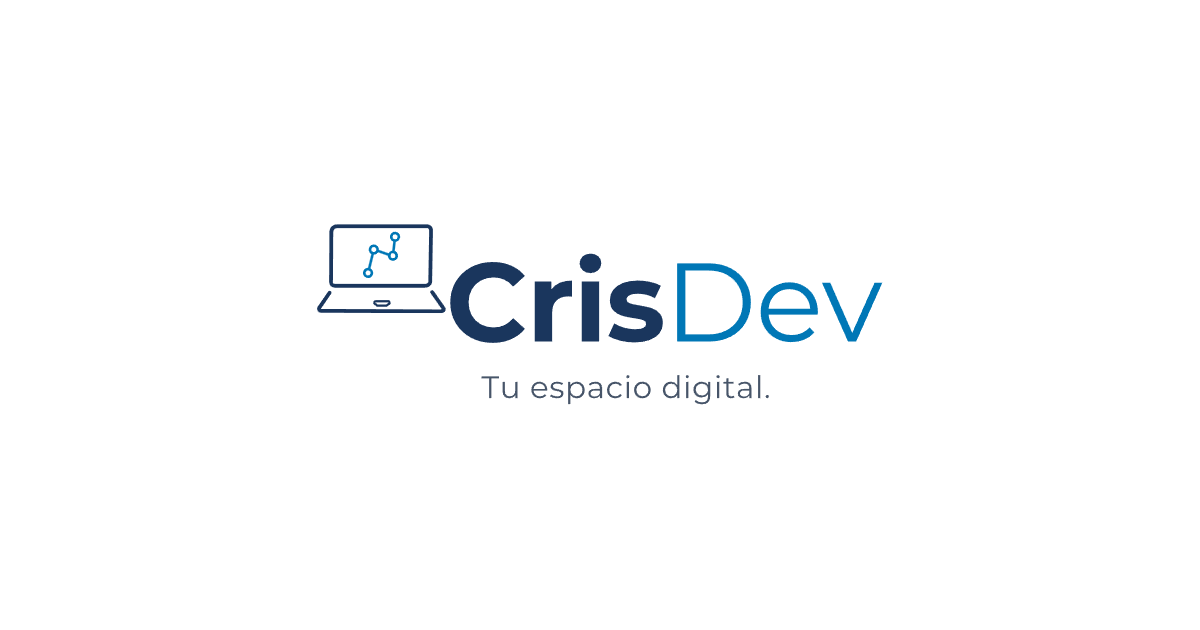
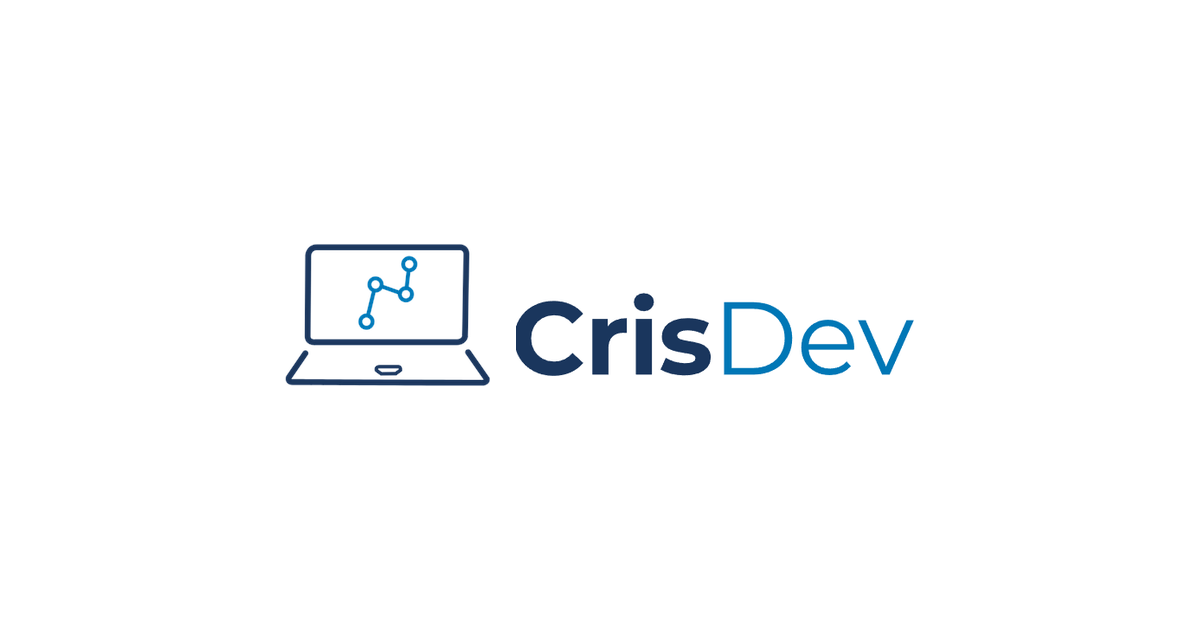
feat: optimize open graph preview image for crisp rendering and stroke visibility

Changed region(s): [[0.2158, 0.3317, 0.7708, 0.6333]]

diff --git a/index.html b/index.html
@@ -19,8 +19,8 @@
   <meta property="og:url" content="https://cristhianruiz.dev/">
   <meta property="og:title" content="CrisDev | Cristhian Ruiz — Software & Web para Psicólogos y Salud">
   <meta property="og:description" content="Presencia digital de alta conversión y plataformas a medida para psicólogos, terapeutas y profesionales de la salud. Menos tareas administrativas, más pacientes y cero comisiones.">
-  <meta property="og:image" content="https://cristhianruiz.dev/assets/images/og-image.png?v=3.0-white">
-  <meta property="og:image:secure_url" content="https://cristhianruiz.dev/assets/images/og-image.png?v=3.0-white">
+  <meta property="og:image" content="https://cristhianruiz.dev/assets/images/og-image.png?v=4.0-crisp">
+  <meta property="og:image:secure_url" content="https://cristhianruiz.dev/assets/images/og-image.png?v=4.0-crisp">
   <meta property="og:image:type" content="image/png">
   <meta property="og:image:width" content="1200">
   <meta property="og:image:height" content="630">
@@ -31,7 +31,7 @@
   <meta property="twitter:url" content="https://cristhianruiz.dev/">
   <meta property="twitter:title" content="CrisDev | Cristhian Ruiz — Software & Web para Psicólogos y Salud">
   <meta property="twitter:description" content="Presencia digital de alta conversión y gestión clínica privada para psicólogos y especialistas de la salud.">
-  <meta property="twitter:image" content="https://cristhianruiz.dev/assets/images/og-image.png?v=3.0-white">
+  <meta property="twitter:image" content="https://cristhianruiz.dev/assets/images/og-image.png?v=4.0-crisp">
 
   <!-- Structured Data / Schema.org (JSON-LD) for Search Engines -->
   <script type="application/ld+json">

diff --git a/aviso-de-privacidad.html b/aviso-de-privacidad.html
@@ -19,8 +19,8 @@
   <meta property="og:url" content="https://cristhianruiz.dev/aviso-de-privacidad">
   <meta property="og:title" content="Aviso de Privacidad | CrisDev — Cristhian Ruiz">
   <meta property="og:description" content="Aviso de privacidad, confidencialidad técnica y términos de protección de datos de CrisDev para especialistas de la salud.">
-  <meta property="og:image" content="https://cristhianruiz.dev/assets/images/og-image.png?v=3.0-white">
-  <meta property="og:image:secure_url" content="https://cristhianruiz.dev/assets/images/og-image.png?v=3.0-white">
+  <meta property="og:image" content="https://cristhianruiz.dev/assets/images/og-image.png?v=4.0-crisp">
+  <meta property="og:image:secure_url" content="https://cristhianruiz.dev/assets/images/og-image.png?v=4.0-crisp">
   <meta property="og:image:type" content="image/png">
   <meta property="og:image:width" content="1200">
   <meta property="og:image:height" content="630">
@@ -30,7 +30,7 @@
   <meta property="twitter:url" content="https://cristhianruiz.dev/aviso-de-privacidad">
   <meta property="twitter:title" content="Aviso de Privacidad | CrisDev — Cristhian Ruiz">
   <meta property="twitter:description" content="Aviso de privacidad y confidencialidad técnica de CrisDev para especialistas de la salud.">
-  <meta property="twitter:image" content="https://cristhianruiz.dev/assets/images/og-image.png?v=3.0-white">
+  <meta property="twitter:image" content="https://cristhianruiz.dev/assets/images/og-image.png?v=4.0-crisp">
 
   <!-- Favicon -->
   <link rel="icon" type="image/svg+xml" href="assets/images/favicon.svg?v=2.1">

diff --git a/overview/session.md b/overview/session.md
@@ -56,17 +56,22 @@
 12. **Actualización de Imagen Open Graph para WhatsApp y Redes Sociales (T31):**
     - Se reemplazó la foto de perfil personal en `og:image` por el imagotipo oficial corporativo con fondo blanco clínico (`assets/images/og-image.png`).
     - Resolución estándar de 1200x630 px con zona segura central de 630x630 px para que no se corte en miniaturas cuadradas de WhatsApp.
-    - Metadatos sincronizados con `og:image:width="1200"`, `og:image:height="630"`, `og:image:type="image/png"` y versión `?v=3.0-white` en `index.html` y `aviso-de-privacidad.html`.
+
+13. **Optimización de Nitidez, Contraste y Trazo en Open Graph (T32):**
+    - **Línea Superior del Icono:** Se reforzó el trazo superior del monitor de la laptop utilizando el render vectorial de alta definición (con grosor consistente de marco en lugar del trazo subpíxel de 2px), garantizando que no desaparezca al comprimirse en miniaturas de 60-80px.
+    - **Eliminación de Subtítulo Borroso:** Se retiró la frase secundaria *"Tu espacio digital."* del banner Open Graph, eliminando el manchón grisáceo y permitiendo que el nombre de marca `CrisDev` y el isotipo respiren con máxima nitidez.
+    - **Zona Segura Cuadrada:** Dimensiones calibradas para que el imagotipo quede perfectamente centrado tanto en el lienzo completo de 1200x630 px como en el recorte/letterbox cuadrado de WhatsApp (630x630 px).
+    - **Cache-Busting Actualizado:** Enlaces actualizados con query string `?v=4.0-crisp` en `index.html` y `aviso-de-privacidad.html` para forzar a los scrapers de WhatsApp y redes a purgar su caché y renderizar la nueva imagen al instante.
 
 ## En qué quedó el proyecto
 
-- Menú hamburguesa móvil y navegación desplegable completados y verificados en móvil y desktop.
-- Imagen de previsualización en WhatsApp y redes sociales actualizada al logotipo oficial sobre fondo blanco clínico.
-- Commit y push completados hacia `origin/main`.
+- Imagen Open Graph regenerada con trazos de alta definición y sin textos microscópicos que causen borrosidad.
+- Metadatos actualizados a versión `?v=4.0-crisp` en `index.html` y `aviso-de-privacidad.html`.
+- Listo para commit y push a `origin/main` para despliegue en Cloudflare Pages.
 
 ## Próximo paso
 
-- Despliegue automático de Cloudflare Pages completado. Esperar nuevas instrucciones del usuario.
+- Enviar cambios a GitHub para que el CDN de Cloudflare Pages publique el nuevo asset y verificar en WhatsApp.
 
 
 

diff --git a/specs/001-landing-page-crisdev/tasks.md b/specs/001-landing-page-crisdev/tasks.md
@@ -34,6 +34,7 @@ Referencia: `specs/001-landing-page-crisdev/plan.md`
 | **T29** | Configuración estratégica de enlaces sociales en footer (remoción de GitHub e integración de Facebook) | `index.html`, `aviso-de-privacidad.html` | ✅ hecho | Sustituido GitHub por Facebook en navegación de footer y datos estructurados Schema.org JSON-LD; unificada línea de copyright. |
 | **T30** | Menú Hamburguesa Móvil (Triple Raya) y Drawer Desplegable exclusivo para celular | `index.html`, `css/components/navbar.css`, `js/terminal-effects.js` | ✅ hecho | Sustituido botón superior de WhatsApp por icono de tres rayas con animación a 'X', drawer clínico 100% sólido y enlaces directos a las 5 secciones más CTA WhatsApp; navbar desktop intacto. |
 | **T31** | Sustitución de foto personal en Open Graph (WhatsApp/Redes) por logo oficial con fondo azul marino | `index.html`, `aviso-de-privacidad.html`, `assets/images/og-image.png` | ✅ hecho | Generada imagen de alta resolución (1200x630 y centrada para recorte cuadrado de WhatsApp) con logo blanco/cyan sobre fondo azul corporativo (#1A365D); actualizadas etiquetas og:image, og:image:width/height/type y twitter:image con versionamiento ?v=2.1. |
+| **T32** | Optimización de nitidez y contraste en imagen Open Graph para WhatsApp | `index.html`, `aviso-de-privacidad.html`, `assets/images/og-image.png` | ✅ hecho | Regenerada imagen og-image.png con isotipo de trazo reforzado (línea superior y cuerpo nítidos), texto CrisDev centrado en zona segura cuadrada (630x630), eliminación del subtítulo para evitar blur al reducir a 80px y cache-busting ?v=4.0-crisp. |
 
 
 

diff --git a/overview/tasks.md b/overview/tasks.md
@@ -32,6 +32,7 @@ Referencia: `specs/001-landing-page-crisdev/tasks.md`
 | **T29** | Configuración estratégica de enlaces sociales en footer (remoción de GitHub e integración de Facebook) | ✅ hecho | `index.html`, `aviso-de-privacidad.html` |
 | **T30** | Menú Hamburguesa Móvil (Triple Raya) y Drawer Desplegable exclusivo para celular | ✅ hecho | `index.html`, `navbar.css`, `terminal-effects.js` |
 | **T31** | Sustitución de foto personal en Open Graph (WhatsApp/Redes) por logo oficial con fondo azul marino | ✅ hecho | `index.html`, `aviso-de-privacidad.html`, `assets/images/og-image.png` |
+| **T32** | Optimización de nitidez y contraste en imagen Open Graph para WhatsApp (trazo visible y cero blur) | ✅ hecho | `index.html`, `aviso-de-privacidad.html`, `assets/images/og-image.png` |
 
 Estados: ⬜ pendiente · 🔄 en curso · ✅ hecho · ⛔ bloqueado
 
